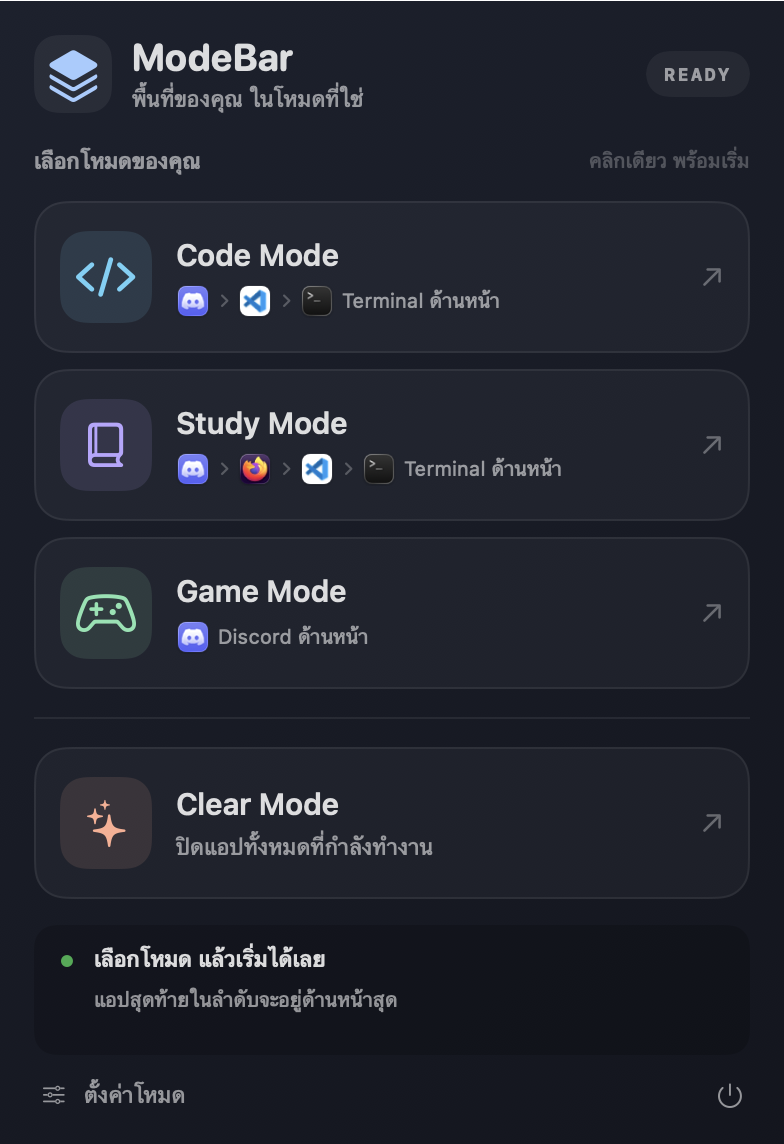
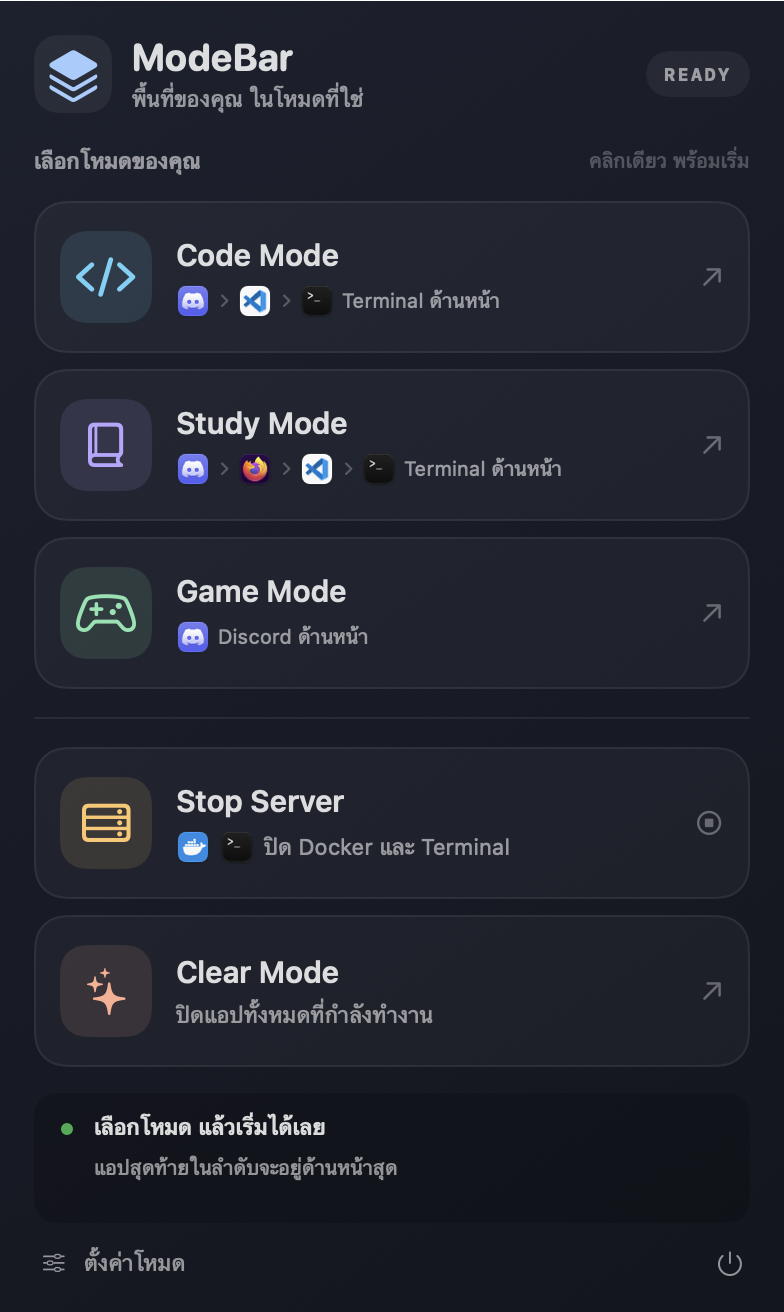
Add Stop Server mode for Docker and Terminal

diff --git a/Tests/SelfTests.swift b/Tests/SelfTests.swift
@@ -52,6 +52,8 @@ enum SelfTests {
         check(defaults.code.map(\.id) == [AppTarget.discord.id, AppTarget.vscode.id, AppTarget.terminal.id], "Code order")
         check(defaults.study.map(\.id) == [AppTarget.discord.id, AppTarget.firefox.id, AppTarget.vscode.id, AppTarget.terminal.id], "Study order / Terminal front")
         check(defaults.game == [.discord], "Game opens Discord only")
+        check(defaults[.stopServer] == [.docker, .terminal], "Stop Server targets Docker and Terminal only")
+        check(Mode.stopServer.isQuitMode && Mode.clear.isQuitMode && !Mode.code.isQuitMode, "Quit modes are identified separately from launch modes")
         let data = try! JSONEncoder().encode(defaults)
         check((try! JSONDecoder().decode(Configuration.self, from: data)) == defaults, "Configuration round trip")
         let store = SettingsStore(defaults: nil)
@@ -142,6 +144,54 @@ enum SelfTests {
         let lateRunner = ModeRunner(settings: SettingsStore(defaults: nil), system: lateQuit)
         await lateRunner.runForTesting(.clear)
         check(lateRunner.remainingApps.isEmpty && !lateRunner.hasError, "Termination in final wait is observed")
+
+        let serverApps = [
+            AppProcess(pid: 200, name: "Docker Desktop", bundleIdentifier: AppTarget.docker.bundleIdentifier, path: AppTarget.docker.path, policy: 1),
+            AppProcess(pid: 201, name: "Terminal", bundleIdentifier: AppTarget.terminal.bundleIdentifier, path: AppTarget.terminal.path, policy: 0),
+            AppProcess(pid: 202, name: "Discord", bundleIdentifier: AppTarget.discord.bundleIdentifier, path: AppTarget.discord.path, policy: 0),
+            AppProcess(pid: 203, name: "VS Code", bundleIdentifier: AppTarget.vscode.bundleIdentifier, path: AppTarget.vscode.path, policy: 0),
+            AppProcess(pid: 204, name: "Docker Helper", bundleIdentifier: "com.docker.backend", path: "/Applications/Docker.app/Contents/MacOS/com.docker.backend", policy: 2),
+            AppProcess(pid: 205, name: "Terminal", bundleIdentifier: "test.other-terminal", path: "/Applications/OtherTerminal.app", policy: 0),
+            AppProcess(pid: 206, name: "Docker", bundleIdentifier: nil, path: "/Applications/OtherDocker.app", policy: 0),
+            apps[0], apps[1]
+        ]
+        let serverSystem = FakeSystem()
+        serverSystem.processes = serverApps
+        let serverSettings = SettingsStore(defaults: nil)
+        serverSettings.configuration.includeMenuBarApps = false
+        let serverRunner = ModeRunner(settings: serverSettings, system: serverSystem)
+        await serverRunner.runForTesting(.stopServer)
+        check(serverSystem.terminated.map(\.pid) == [200, 201], "Stop Server quits Docker menu app and Terminal regardless of Clear preference")
+        check(serverSystem.launches.isEmpty && serverSystem.activations.isEmpty, "Stop Server never launches or raises target apps")
+        check(Set(serverSystem.processes.map(\.pid)) == [100, 101, 202, 203, 204, 205, 206], "Stop Server preserves other apps, helpers, and similarly named apps")
+        check(serverRunner.activeMode == .stopServer && !serverRunner.isBusy && !serverRunner.hasError, "Stop Server completion state")
+
+        let stoppedSystem = FakeSystem()
+        stoppedSystem.processes = apps
+        let stoppedRunner = ModeRunner(settings: SettingsStore(defaults: nil), system: stoppedSystem)
+        await stoppedRunner.runForTesting(.stopServer)
+        check(stoppedSystem.terminated.isEmpty && stoppedSystem.launches.isEmpty, "Already stopped apps do not need to be installed or launched")
+        check(stoppedRunner.activeMode == .stopServer && !stoppedRunner.hasError && stoppedRunner.detail == "Docker และ Terminal ปิดอยู่แล้ว", "Already stopped mode reports success")
+
+        let waitingServer = FakeSystem()
+        waitingServer.processes = serverApps
+        waitingServer.blockedPIDs = [201]
+        let waitingRunner = ModeRunner(settings: SettingsStore(defaults: nil), system: waitingServer)
+        await waitingRunner.runForTesting(.stopServer)
+        check(waitingRunner.remainingApps.map(\.pid) == [201] && waitingRunner.hasError && waitingRunner.activeMode == nil, "Terminal quit confirmation is reported as pending")
+        check(waitingServer.terminated.map(\.pid) == [200, 201] && !waitingRunner.isBusy, "Pending Stop Server does not force quit or repeat requests")
+
+        let dockerOnly = FakeSystem()
+        dockerOnly.processes = [serverApps[0]]
+        let dockerOnlyRunner = ModeRunner(settings: SettingsStore(defaults: nil), system: dockerOnly)
+        await dockerOnlyRunner.runForTesting(.stopServer)
+        check(dockerOnly.terminated.map(\.pid) == [200] && !dockerOnlyRunner.hasError, "Stop Server handles only one target running")
+
+        let ownProcess = FakeSystem()
+        ownProcess.processes = [AppProcess(pid: ownProcess.currentPID, name: "Docker", bundleIdentifier: AppTarget.docker.bundleIdentifier, path: AppTarget.docker.path, policy: 1)]
+        let ownRunner = ModeRunner(settings: SettingsStore(defaults: nil), system: ownProcess)
+        await ownRunner.runForTesting(.stopServer)
+        check(ownProcess.terminated.isEmpty, "Stop Server never terminates its own process")
 
         let concurrentSystem = FakeSystem()
         let concurrent = ModeRunner(settings: SettingsStore(defaults: nil), system: concurrentSystem)

diff --git a/Sources/Views.swift b/Sources/Views.swift
@@ -12,6 +12,7 @@ extension Mode {
         case .code: return Color(red: 0.42, green: 0.82, blue: 0.97)
         case .study: return Color(red: 0.72, green: 0.65, blue: 1)
         case .game: return Color(red: 0.52, green: 0.89, blue: 0.69)
+        case .stopServer: return Color(red: 1, green: 0.78, blue: 0.42)
         case .clear: return Color(red: 1, green: 0.68, blue: 0.57)
         }
     }
@@ -60,6 +61,12 @@ struct ModeButton: View {
                     if mode == .clear {
                         Text("ปิดแอปทั้งหมดที่กำลังทำงาน")
                             .font(.system(size: 11)).foregroundStyle(.secondary)
+                    } else if mode == .stopServer {
+                        HStack(spacing: 5) {
+                            ForEach(apps) { AppIcon(target: $0, size: 17) }
+                            Text("ปิด Docker และ Terminal")
+                                .font(.system(size: 11)).foregroundStyle(.secondary)
+                        }
                     } else {
                         HStack(spacing: 4) {
                             ForEach(Array(apps.prefix(5).enumerated()), id: \.element.id) { index, app in
@@ -79,7 +86,7 @@ struct ModeButton: View {
                     }
                 }
                 Spacer(minLength: 0)
-                Image(systemName: "arrow.up.right")
+                Image(systemName: mode == .stopServer ? "stop.circle" : "arrow.up.right")
                     .font(.system(size: 12, weight: .medium))
                     .foregroundStyle(hovered ? mode.color : Color.secondary.opacity(0.6))
             }
@@ -93,9 +100,9 @@ struct ModeButton: View {
         .disabled(busy)
         .opacity(busy ? 0.5 : 1)
         .onHover { hovered = $0 }
-        .help(mode == .clear ? "ปิดแอปทั้งหมด ยกเว้น Finder และ ModeBar · แอปอาจขอให้บันทึกงาน" : apps.map(\.name).joined(separator: " → "))
+        .help(mode == .clear ? "ปิดแอปทั้งหมด ยกเว้น Finder และ ModeBar · แอปอาจขอให้บันทึกงาน" : mode == .stopServer ? "ปิดเฉพาะ Docker และ Terminal · แอปอาจขอให้ยืนยันก่อนปิด" : apps.map(\.name).joined(separator: " → "))
         .accessibilityLabel(mode.title)
-        .accessibilityHint(mode == .clear ? "ปิดทุกแอปที่เปิดอยู่" : apps.map(\.name).joined(separator: ", "))
+        .accessibilityHint(mode == .clear ? "ปิดทุกแอปที่เปิดอยู่" : mode == .stopServer ? "ปิดเฉพาะ Docker และ Terminal" : apps.map(\.name).joined(separator: ", "))
     }
 }
 
@@ -141,7 +148,11 @@ struct MenuPanel: View {
                 }
             }
             Rectangle().fill(.white.opacity(0.07)).frame(height: 1).padding(.vertical, 1)
-            ModeButton(mode: .clear, apps: [], selected: runner.activeMode == .clear, busy: runner.isBusy) { runner.start(.clear) }
+            VStack(spacing: 8) {
+                ModeButton(mode: .stopServer, apps: settings.configuration[.stopServer], selected: runner.activeMode == .stopServer,
+                           busy: runner.isBusy) { runner.start(.stopServer) }
+                ModeButton(mode: .clear, apps: [], selected: runner.activeMode == .clear, busy: runner.isBusy) { runner.start(.clear) }
+            }
 
             VStack(alignment: .leading, spacing: 5) {
                 HStack(alignment: .top, spacing: 7) {
@@ -286,7 +297,7 @@ struct SettingsPanel: View {
                 }
             }.font(.system(size: 12))
             HStack {
-                Text("ModeBar 1.0 · Made for your Mac").font(.system(size: 10)).foregroundStyle(.tertiary)
+                Text("ModeBar 1.1 · Made for your Mac").font(.system(size: 10)).foregroundStyle(.tertiary)
                 Spacer()
             }
         }

diff --git a/Sources/ModeRunner.swift b/Sources/ModeRunner.swift
@@ -129,8 +129,8 @@ final class ModeRunner: ObservableObject {
     private func perform(_ mode: Mode) async {
         defer { isBusy = false; onStateChange?() }
         activeMode = nil
-        if mode == .clear {
-            await clearApps()
+        if mode.isQuitMode {
+            await quitApps(for: mode)
             return
         }
         let targets = settings.configuration[mode]
@@ -181,12 +181,18 @@ final class ModeRunner: ObservableObject {
         }
     }
 
-    private func clearApps() async {
-        let candidates = system.runningApps().filter {
-            QuitPolicy.includes($0, currentPID: system.currentPID, menuBarApps: settings.configuration.includeMenuBarApps)
+    private func quitApps(for mode: Mode) async {
+        let targetIDs = Set(settings.configuration[mode].compactMap(\.bundleIdentifier))
+        let candidates = system.runningApps().filter { app in
+            if mode == .stopServer {
+                guard app.pid > 0, app.pid != system.currentPID,
+                      let identifier = app.bundleIdentifier else { return false }
+                return targetIDs.contains(identifier)
+            }
+            return QuitPolicy.includes(app, currentPID: system.currentPID, menuBarApps: settings.configuration.includeMenuBarApps)
         }
-        status = "กำลังปิด \(candidates.count) แอป…"
-        detail = "หากมีงานค้าง แอปอาจขอให้บันทึกก่อนปิด"
+        status = mode == .stopServer ? "กำลังปิด Docker และ Terminal…" : "กำลังปิด \(candidates.count) แอป…"
+        detail = "แอปอาจขอยืนยันการปิดหรือบันทึกงานก่อนปิด"
         for app in candidates { _ = system.terminate(app) }
         var remaining = candidates
         for _ in 0..<60 {
@@ -199,15 +205,20 @@ final class ModeRunner: ObservableObject {
         remaining = candidates.filter { livePIDs.contains($0.pid) }
         remainingApps = remaining
         if remaining.isEmpty {
-            activeMode = .clear
-            status = "Clear Mode พร้อมแล้ว"
-            detail = candidates.isEmpty ? "ไม่มีแอปที่ต้องปิด" : "ปิดแล้ว \(candidates.count) แอป · พื้นที่พร้อมเริ่มใหม่"
+            activeMode = mode
+            if mode == .stopServer {
+                status = "Stop Server เสร็จแล้ว"
+                detail = candidates.isEmpty ? "Docker และ Terminal ปิดอยู่แล้ว" : "ปิดแล้ว \(candidates.count) แอป · Docker และ Terminal"
+            } else {
+                status = "Clear Mode พร้อมแล้ว"
+                detail = candidates.isEmpty ? "ไม่มีแอปที่ต้องปิด" : "ปิดแล้ว \(candidates.count) แอป · พื้นที่พร้อมเริ่มใหม่"
+            }
             hasError = false
         } else {
             activeMode = nil
             hasError = true
             status = "ยังเปิดอยู่ \(remaining.count) แอป"
-            detail = "อาจรอบันทึกงานหรือปฏิเสธการปิด · คลิกชื่อแอปด้านล่าง"
+            detail = "อาจรอยืนยันหรือบันทึกงาน · คลิกชื่อแอปด้านล่าง"
         }
     }
 

diff --git a/Sources/Models.swift b/Sources/Models.swift
@@ -5,13 +5,15 @@ import AppKit
 import Foundation
 
 enum Mode: String, Codable, CaseIterable, Identifiable {
-    case code, study, game, clear
+    case code, study, game, stopServer, clear
     var id: String { rawValue }
+    var isQuitMode: Bool { self == .stopServer || self == .clear }
     var title: String {
         switch self {
         case .code: return "Code Mode"
         case .study: return "Study Mode"
         case .game: return "Game Mode"
+        case .stopServer: return "Stop Server"
         case .clear: return "Clear Mode"
         }
     }
@@ -20,6 +22,7 @@ enum Mode: String, Codable, CaseIterable, Identifiable {
         case .code: return "chevron.left.forwardslash.chevron.right"
         case .study: return "book.closed"
         case .game: return "gamecontroller"
+        case .stopServer: return "server.rack"
         case .clear: return "sparkles"
         }
     }
@@ -28,6 +31,7 @@ enum Mode: String, Codable, CaseIterable, Identifiable {
         case .code: return "พร้อมเขียนโค้ด"
         case .study: return "จัดพื้นที่ให้พร้อมเรียน"
         case .game: return "ได้เวลาเล่นเกม"
+        case .stopServer: return "ปิด Docker และ Terminal"
         case .clear: return "ปิดทุกแอป แล้วเริ่มใหม่"
         }
     }
@@ -43,6 +47,7 @@ struct AppTarget: Codable, Equatable, Identifiable {
     static let vscode = AppTarget(name: "VS Code", bundleIdentifier: "com.microsoft.VSCode", path: "/Applications/Visual Studio Code.app")
     static let terminal = AppTarget(name: "Terminal", bundleIdentifier: "com.apple.Terminal", path: "/System/Applications/Utilities/Terminal.app")
     static let firefox = AppTarget(name: "Firefox", bundleIdentifier: "org.mozilla.firefox", path: "/Applications/Firefox.app")
+    static let docker = AppTarget(name: "Docker", bundleIdentifier: "com.docker.docker", path: "/Applications/Docker.app")
 
     init(name: String, bundleIdentifier: String?, path: String) {
         self.name = name
@@ -81,6 +86,7 @@ struct Configuration: Codable, Equatable {
             case .code: return code
             case .study: return study
             case .game: return game
+            case .stopServer: return [.docker, .terminal]
             case .clear: return []
             }
         }
@@ -89,7 +95,7 @@ struct Configuration: Codable, Equatable {
             case .code: code = newValue
             case .study: study = newValue
             case .game: game = newValue
-            case .clear: break
+            case .stopServer, .clear: break
             }
         }
     }

diff --git a/Sources/Main.swift b/Sources/Main.swift
@@ -129,18 +129,22 @@ enum Main {
         }
         if arguments.contains("--diagnostics") {
             let config = Configuration()
-            let modes = [Mode.code, .study, .game].map { mode in
-                ["mode": mode.rawValue, "apps": config[mode].map { ["name": $0.name, "path": $0.resolvedURL?.path ?? "MISSING"] }] as [String: Any]
+            let modes = [Mode.code, .study, .game, .stopServer].map { mode in
+                ["mode": mode.rawValue, "action": mode.isQuitMode ? "quit" : "launch",
+                 "apps": config[mode].map { ["name": $0.name, "path": $0.resolvedURL?.path ?? "MISSING"] }] as [String: Any]
             }
-            let report: [String: Any] = ["version": "1.0", "modes": modes, "clearPreserves": ["Finder", "ModeBar"]]
+            let report: [String: Any] = ["version": "1.1", "modes": modes, "clearPreserves": ["Finder", "ModeBar"]]
             if let data = try? JSONSerialization.data(withJSONObject: report, options: [.prettyPrinted, .sortedKeys]) {
                 print(String(decoding: data, as: UTF8.self))
             }
             return
         }
         let app = NSApplication.shared
-        if let index = arguments.firstIndex(of: "--verify-mode"), arguments.count > index + 1,
-           let mode = Mode(rawValue: arguments[index + 1]), mode != .clear {
+        if let index = arguments.firstIndex(of: "--verify-mode") {
+            guard arguments.count > index + 1, let mode = Mode(rawValue: arguments[index + 1]), !mode.isQuitMode else {
+                fputs("Usage: --verify-mode code|study|game (quit modes are not supported)\n", stderr)
+                exit(2)
+            }
             app.setActivationPolicy(.accessory)
             Task {
                 let runner = ModeRunner(settings: SettingsStore(defaults: nil), system: MacSystem())
@@ -153,7 +157,8 @@ enum Main {
             app.run()
             return
         }
-        let others = NSRunningApplication.runningApplications(withBundleIdentifier: "org.modebar.ModeBar")
+        let identifier = Bundle.main.bundleIdentifier ?? "org.modebar.ModeBar"
+        let others = NSRunningApplication.runningApplications(withBundleIdentifier: identifier)
             .filter { $0.processIdentifier != ProcessInfo.processInfo.processIdentifier }
         if let existing = others.first {
             _ = existing.activate(options: [])

diff --git a/README.md b/README.md
@@ -6,20 +6,23 @@ Created by [HopeZaa](https://github.com/HopeZaa).
 
 Click the stacked-layers icon in the menu bar to choose a mode. ModeBar launches apps in order and brings the last app to the foreground.
 
-<img src="docs/images/menu.png" alt="ModeBar menu showing Code, Study, Game, and Clear modes" width="392">
+<img src="docs/images/menu.png" alt="ModeBar menu showing Code, Study, Game, Stop Server, and Clear modes" width="392">
 
 ## Default modes
 
-| Mode | Launch order | Foreground app |
+| Mode | Action | Foreground app or result |
 | --- | --- | --- |
 | Code | Discord → Visual Studio Code → Terminal | Terminal |
 | Study | Discord → Firefox → Visual Studio Code → Terminal | Terminal |
 | Game | Discord | Discord |
+| Stop Server | Quit Docker Desktop and Terminal | Other apps stay open |
 | Clear | Quit running user apps, including eligible menu bar apps | Finder and ModeBar stay open |
 
 Study Mode opens [MyCourseVille](https://www.mycourseville.com/) in Firefox, using the browser's existing profile and sign-in state. The other modes do not open this website.
 
 Code, Study, and Game modes leave other running apps open. Use Clear Mode to close your workspace first if needed.
+
+**Stop Server** quits Docker Desktop and Apple Terminal only. It does not open either app if it is already closed. This action is separate from Clear Mode's menu bar app preference. If an app needs confirmation before quitting, ModeBar lists it so you can return to its prompt.
 
 Clear Mode sends normal quit requests. Apps may ask you to save unfinished work. After 15 seconds, ModeBar lists any apps that are still running so you can return to them. It does not force quit apps or discard unsaved work. System agents and nested app helpers are excluded.
 
@@ -70,7 +73,7 @@ Run the automated tests after building:
 ./build/ModeBar.app/Contents/MacOS/ModeBar --self-test
 ```
 
-The tests use a simulated system to check launch order, foreground activation, the Study URL, settings, missing apps, launch failures, overlapping clicks, and Clear Mode behavior. They do not launch or quit your apps.
+The tests use a simulated system to check launch order, foreground activation, the Study URL, settings, missing apps, launch failures, overlapping clicks, selective Stop Server shutdown, and Clear Mode behavior. They do not launch or quit your apps.
 
 Inspect the default app paths without switching modes:
 
@@ -86,7 +89,7 @@ Optional integration checks open the actual default apps and verify the foregrou
 ./build/ModeBar.app/Contents/MacOS/ModeBar --verify-mode game
 ```
 
-Clear Mode is intentionally unavailable through `--verify-mode`. `Tools/VerifyClear.swift` provides a separate test harness that restricts quit requests to two disposable fixture apps.
+Stop Server and Clear Mode are intentionally unavailable through `--verify-mode`. `Tools/VerifyClear.swift` provides a separate test harness that restricts quit requests to two disposable fixture apps.
 
 ## Project layout
 
